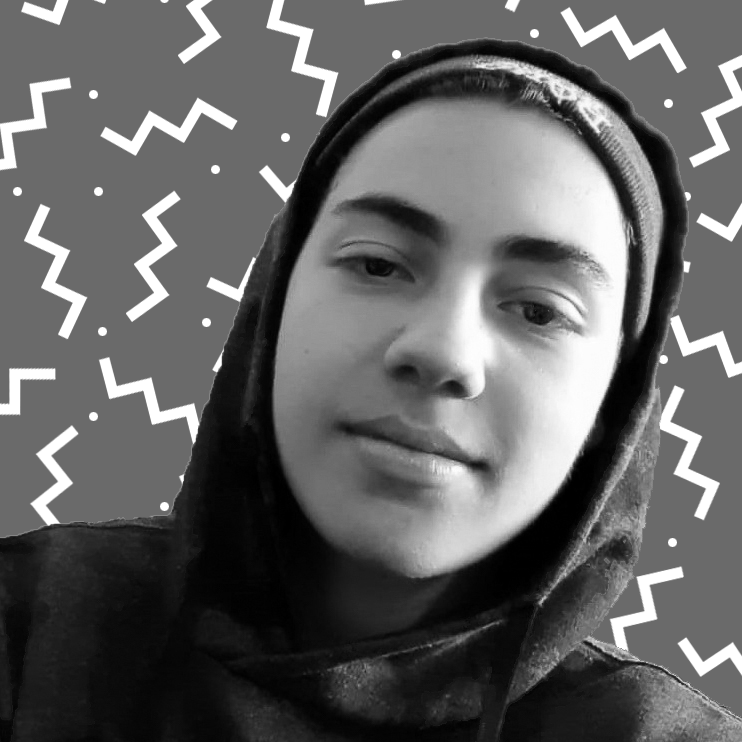
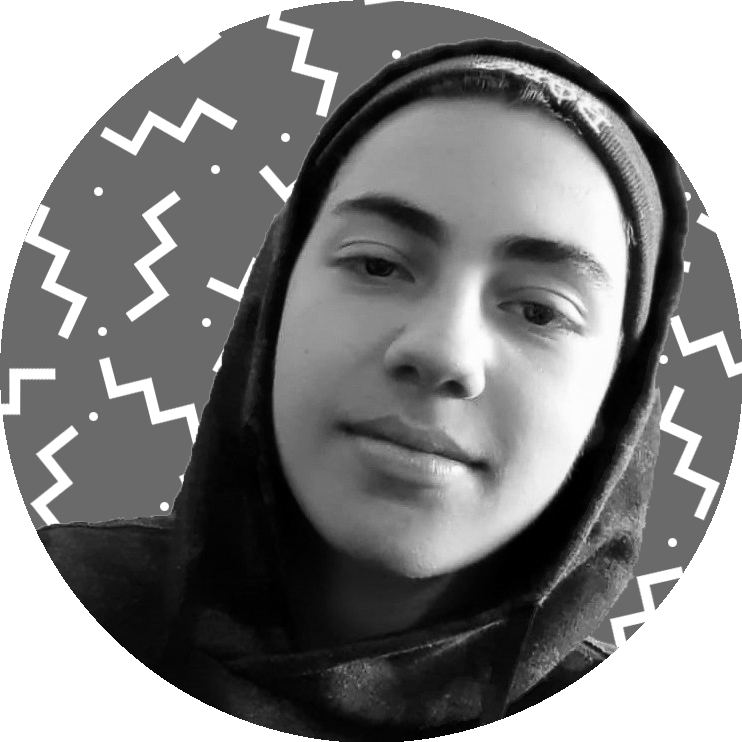
📚 docs: Updating README

diff --git a/README.md b/README.md
@@ -1,6 +1,6 @@
 <h1 align="center">
     <br>
-    <img src="./.github/profile.png" width="150" alt="Logo CV" style="border-radius: 100%;">
+    <img src="./.github/profile.png" width="150" alt="Logo CV">
 </h1>
 <!-- <h4 align="center">Projeto ...</h4> -->
 <p align="center">
